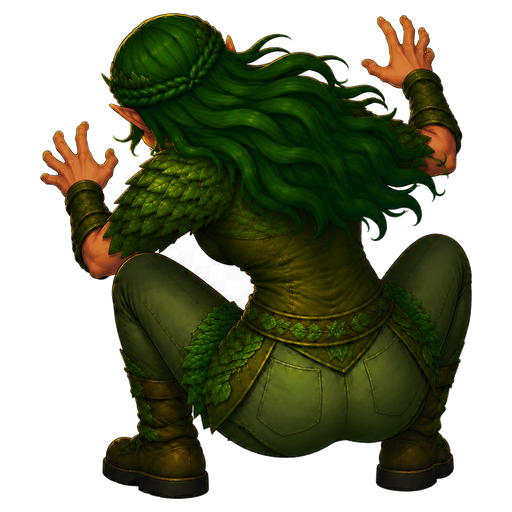
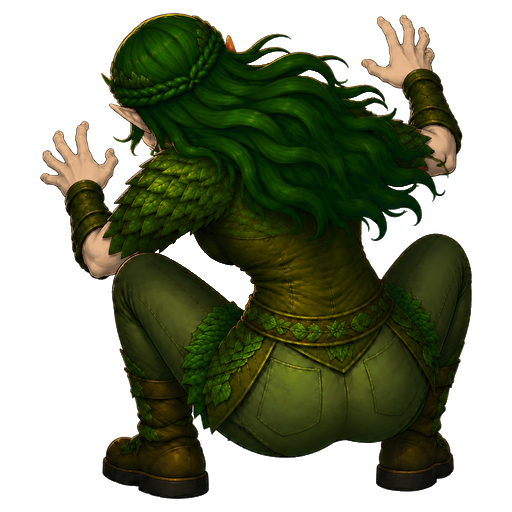
Repair Lula sprite transparency and skin tone

diff --git a/src/characters/manifest.ts b/src/characters/manifest.ts
@@ -48,7 +48,7 @@ export const KRIOS_ASSET_REVISION = 'krios-runtime-20260822-1';
 export const KEEG_ASSET_REVISION = 'keeg-runtime-20260826-2';
 export const MCFLEURDEL_ASSET_REVISION = 'mcfleurdel-runtime-20260827-1';
 export const TOPH_ASSET_REVISION = 'toph-runtime-20260828-1';
-export const LULA_ASSET_REVISION = 'lula-runtime-20260829-1';
+export const LULA_ASSET_REVISION = 'lula-runtime-20260830-2';
 
 const assetUrl = (path: string, revision: string): string =>
   `${import.meta.env.BASE_URL}${path}?v=${revision}`;

diff --git a/tools/assets/repair_lula_skin_tone.py b/tools/assets/repair_lula_skin_tone.py
@@ -1,0 +1,140 @@
+#!/usr/bin/env python3
+"""Normalize Lula chase-camera skin to the approved portrait/front palette."""
+
+from __future__ import annotations
+
+import argparse
+import colorsys
+from pathlib import Path
+
+import numpy as np
+from PIL import Image, ImageDraw
+
+
+ROOT = Path(__file__).resolve().parents[2]
+DRIVER_DIR = ROOT / "public/assets/characters/aa-03/driver"
+
+# Deliberately tight regions around exposed skin. Color qualification below keeps
+# bracers, clothing, hair, and dark linework out of the final masks.
+REGIONS: dict[str, tuple[tuple[int, int, int, int], ...]] = {
+    "rear.png": (
+        (170, 55, 215, 132),
+        (298, 55, 345, 132),
+        (104, 138, 181, 286),
+        (329, 138, 406, 286),
+    ),
+    "steer-left.png": (
+        (174, 54, 236, 166),
+        (114, 178, 231, 312),
+    ),
+    "steer-right.png": (
+        (269, 54, 331, 171),
+        (319, 173, 416, 302),
+    ),
+    "hit.png": (
+        (88, 72, 181, 177),
+        (23, 96, 147, 313),
+        (363, 0, 477, 208),
+    ),
+    "victory.png": (
+        (194, 38, 352, 228),
+        (133, 98, 252, 302),
+    ),
+}
+
+
+def rgb_to_hsv(rgb: np.ndarray) -> np.ndarray:
+    flat = rgb.reshape(-1, 3) / 255.0
+    return np.asarray([colorsys.rgb_to_hsv(*pixel) for pixel in flat]).reshape(
+        *rgb.shape[:2], 3
+    )
+
+
+def skin_mask(pixels: np.ndarray, regions: tuple[tuple[int, int, int, int], ...]) -> np.ndarray:
+    region_mask = np.zeros(pixels.shape[:2], dtype=bool)
+    for x0, y0, x1, y1 in regions:
+        region_mask[y0:y1, x0:x1] = True
+
+    rgb = pixels[:, :, :3]
+    hsv = rgb_to_hsv(rgb)
+    red = rgb[:, :, 0].astype(float)
+    green = rgb[:, :, 1].astype(float)
+    blue = rgb[:, :, 2].astype(float)
+    hue = hsv[:, :, 0] * 360.0
+    already_normalized = (np.abs(hue - 28.5) <= 2.0) & (hsv[:, :, 1] <= 0.55)
+
+    return (
+        region_mask
+        & (pixels[:, :, 3] > 0)
+        & (hue < 50.0)
+        & (hsv[:, :, 1] > 0.25)
+        & (hsv[:, :, 2] > 0.28)
+        & (red > green * 1.15)
+        & (green > blue * 1.05)
+        & ~already_normalized
+    )
+
+
+def normalize_skin(pixels: np.ndarray, mask: np.ndarray) -> np.ndarray:
+    result = pixels.copy()
+    hsv = rgb_to_hsv(pixels[:, :, :3])
+
+    # Authority: the approved portrait/front sprites. Preserve each source
+    # pixel's value/shading while moving hue and saturation into that palette.
+    source_sat = hsv[:, :, 1]
+    target_hue = 28.5 / 360.0
+    target_sat = np.clip(0.40 + (source_sat - np.median(source_sat[mask])) * 0.18, 0.30, 0.52)
+    target_val = np.clip(hsv[:, :, 2] * 1.06 + 0.025, 0.0, 0.96)
+
+    ys, xs = np.nonzero(mask)
+    for y, x in zip(ys, xs, strict=True):
+        red, green, blue = colorsys.hsv_to_rgb(target_hue, target_sat[y, x], target_val[y, x])
+        result[y, x, :3] = np.rint(np.asarray((red, green, blue)) * 255).astype(np.uint8)
+    return result
+
+
+def write_preview(image: Image.Image, mask: np.ndarray, destination: Path) -> None:
+    preview = image.convert("RGBA")
+    overlay = Image.new("RGBA", preview.size, (0, 0, 0, 0))
+    overlay_pixels = np.zeros((*mask.shape, 4), dtype=np.uint8)
+    overlay_pixels[mask] = (0, 255, 255, 185)
+    overlay = Image.fromarray(overlay_pixels, "RGBA")
+    preview = Image.alpha_composite(preview, overlay)
+    draw = ImageDraw.Draw(preview)
+    draw.text((8, 8), destination.stem, fill=(255, 255, 255, 255), stroke_width=2, stroke_fill=(0, 0, 0, 255))
+    preview.save(destination)
+
+
+def main() -> None:
+    parser = argparse.ArgumentParser()
+    parser.add_argument("--apply", action="store_true", help="write corrected sprites in place")
+    parser.add_argument("--preview-dir", type=Path, help="write cyan mask previews")
+    args = parser.parse_args()
+
+    if not args.apply and args.preview_dir is None:
+        parser.error("choose --apply and/or --preview-dir")
+
+    if args.preview_dir:
+        args.preview_dir.mkdir(parents=True, exist_ok=True)
+
+    for filename, regions in REGIONS.items():
+        path = DRIVER_DIR / filename
+        image = Image.open(path).convert("RGBA")
+        pixels = np.asarray(image).copy()
+        mask = skin_mask(pixels, regions)
+        if not mask.any():
+            print(f"{filename}: already normalized")
+            continue
+
+        if args.preview_dir:
+            write_preview(image, mask, args.preview_dir / filename)
+
+        if args.apply:
+            corrected = normalize_skin(pixels, mask)
+            Image.fromarray(corrected, "RGBA").save(path, optimize=True)
+
+        print(f"{filename}: {int(mask.sum())} skin pixels")
+
+
+if __name__ == "__main__":
+    main()

diff --git a/tools/assets/repair_lula_alpha.py b/tools/assets/repair_lula_alpha.py
@@ -1,0 +1,129 @@
+#!/usr/bin/env python3
+"""Remove residual generated white background from approved Lula runtime PNGs.
+
+The original cleanup removed only light-neutral pixels connected directly to an
+image edge. Antialiased color bands enclosed parts of that background, leaving
+opaque white islands and ribbons. This repair classifies connected neutral
+components against the existing alpha boundary and removes large enclosed
+components while preserving small isolated highlights such as eyes.
+"""
+
+from __future__ import annotations
+
+import argparse
+from collections import deque
+from pathlib import Path
+
+import numpy as np
+from PIL import Image
+
+
+FILES = (
+    "portrait.png",
+    "driver/front.png",
+    "driver/rear.png",
+    "driver/steer-left.png",
+    "driver/steer-right.png",
+    "driver/hit.png",
+    "driver/victory.png",
+)
+
+# Only these small face regions may contain intentional neutral highlights.
+# Everything else in Lula's approved green/brown package is background spill.
+PROTECTED_RECTS = {
+    "portrait.png": (82, 66, 180, 170),
+    "driver/front.png": (205, 55, 310, 185),
+    "driver/victory.png": (300, 82, 400, 205),
+}
+
+
+def neighboring(mask: np.ndarray) -> np.ndarray:
+    expanded = mask.copy()
+    expanded[1:] |= mask[:-1]
+    expanded[:-1] |= mask[1:]
+    expanded[:, 1:] |= mask[:, :-1]
+    expanded[:, :-1] |= mask[:, 1:]
+    return expanded
+
+
+def background_components(
+    rgb: np.ndarray, alpha: np.ndarray, protected_rect: tuple[int, int, int, int] | None
+) -> np.ndarray:
+    maximum = rgb.max(axis=2)
+    minimum = rgb.min(axis=2)
+    neutral = (minimum >= 165) & ((maximum - minimum) <= 65) & (alpha > 0)
+    transparent_neighbor = neighboring(alpha == 0)
+    height, width = neutral.shape
+    visited = np.zeros_like(neutral)
+    remove = np.zeros_like(neutral)
+
+    for start_y, start_x in zip(*np.where(neutral)):
+        if visited[start_y, start_x]:
+            continue
+        queue: deque[tuple[int, int]] = deque([(int(start_y), int(start_x))])
+        visited[start_y, start_x] = True
+        component: list[tuple[int, int]] = []
+        touches_transparency = False
+
+        while queue:
+            y, x = queue.popleft()
+            component.append((y, x))
+            touches_transparency |= bool(transparent_neighbor[y, x])
+            for dy, dx in ((-1, 0), (1, 0), (0, -1), (0, 1)):
+                next_y, next_x = y + dy, x + dx
+                if (
+                    0 <= next_y < height
+                    and 0 <= next_x < width
+                    and neutral[next_y, next_x]
+                    and not visited[next_y, next_x]
+                ):
+                    visited[next_y, next_x] = True
+                    queue.append((next_y, next_x))
+
+        # Lula's palette contains no white costume detail. All neutral
+        # components outside the explicit face protection zones are background.
+        for y, x in component:
+            protected = False
+            if protected_rect is not None:
+                left, top, right, bottom = protected_rect
+                protected = left <= x < right and top <= y < bottom
+            if not protected and (touches_transparency or len(component) >= 1):
+                remove[y, x] = True
+
+    # Remove two pixels of pale antialias spill only where it borders confirmed
+    # background. Strongly colored hair, skin, and clothing are unaffected.
+    for _ in range(2):
+        edge = neighboring(remove) & ~remove & (alpha > 0)
+        spill = edge & (minimum >= 150) & ((maximum - minimum) <= 100)
+        if not spill.any():
+            break
+        remove |= spill
+    return remove
+
+
+def repair(path: Path, relative: str) -> tuple[int, int]:
+    image = Image.open(path).convert("RGBA")
+    rgba = np.array(image)
+    remove = background_components(
+        rgba[:, :, :3], rgba[:, :, 3], PROTECTED_RECTS.get(relative)
+    )
+    before = int((rgba[:, :, 3] > 0).sum())
+    rgba[remove, 3] = 0
+    rgba[remove, :3] = 0
+    Image.fromarray(rgba, "RGBA").save(path, format="PNG", optimize=True)
+    after = int((rgba[:, :, 3] > 0).sum())
+    return before - after, after
+
+
+def main() -> None:
+    parser = argparse.ArgumentParser()
+    parser.add_argument("--asset-dir", required=True, type=Path)
+    args = parser.parse_args()
+    for relative in FILES:
+        path = args.asset_dir / relative
+        removed, remaining = repair(path, relative)
+        print({"path": str(path), "removed": removed, "foreground": remaining})
+
+
+if __name__ == "__main__":
+    main()

diff --git a/docs/IMPLEMENTATION-STATUS.md b/docs/IMPLEMENTATION-STATUS.md
@@ -6,7 +6,7 @@
 
 PRD baseline: **v1.1, working implementation amendment 1.6**.
 
-Latest verified live character checkpoint: `a8fea24b309e3123115e9a04c3aee0614085bdc1` — PR #42 recorded Toph's completed live production acceptance after the front-view hand-to-wheel correction passed manual testing. Toph's portrait, The Grave Shift, all six driver states, orientation, AI identity, and runtime behavior are accepted. Main checkpoint `95e221bafa0bfdc68f254a43ac865b9ee461b00c` subsequently prepared Lula's approved transparent sprite package without activating AA-03. Lula's kart and runtime integration are now staged locally pending repository approval, CI, deployment, and live acceptance; this does not supersede Toph as the latest verified live character checkpoint.
+Latest verified live character checkpoint: `a8fea24b309e3123115e9a04c3aee0614085bdc1` — PR #42 recorded Toph's completed live production acceptance after the front-view hand-to-wheel correction passed manual testing. Toph's portrait, The Grave Shift, all six driver states, orientation, AI identity, and runtime behavior are accepted. PR #44 subsequently integrated and deployed Lula at main checkpoint `7822ba05dd5e81b0da40b6038596c6fc12095c5f`, but mobile playtesting exposed sprite-alpha and chase-camera skin-palette defects. Their local corrections remain uncommitted pending a playable test build and Manny's confirmation, so Lula does not supersede Toph as the latest verified live character checkpoint.
 
 The prior detailed implementation-status snapshot is preserved verbatim at `docs/history/IMPLEMENTATION-STATUS-through-2026-08-22.md`.
 
@@ -82,16 +82,18 @@ Continuity closure completed by PR #32:
 - Items and AI item use remain Slice 5.
 - Final HUD/audio/post-processing/optimization remain Slice 6.
 
-## Lula production status — staged for repository checkpoint
+## Lula production status — deployed; corrective playtest pending
 
 - Manny approved Lula's character lock, definitive authority, transformation rights, AA-03 Feather Dirt Ace mapping, The Verdant Hart, all seven transparent 2D designs, and 3D Candidate 4 on 2026-08-29.
 - Candidate 4 resolves the rejected candidates' floating components through open-ended root tubes buried within overlapping organic joints. Dedicated foliage geometry renders recognizable green leaf clusters consistently across viewers.
 - Deterministic production GLBs: LOD0 21,948 triangles / LOD1 8,954 / LOD2 4,746. Each has five materials, 13 required nodes, and `extras.forward: "-Z"`.
[1 lines of base64/hex data omitted]
-- AA-03 activation is staged with controlled revision `lula-runtime-20260829-1`, all six driver states, approved stats, The Verdant Hart, and `NEGATIVE_Z_KART_VISUAL_YAW`.
+- AA-03 activation now uses corrected revision `lula-runtime-20260830-2`, all six driver states, approved stats, The Verdant Hart, and `NEGATIVE_Z_KART_VISUAL_YAW`.
 - Runtime verification covers all three GLBs and all seven PNGs.
 - The branch-scoped LFS bridge regenerated and uploaded only the three locked object IDs. PR #44 CI run `33266092639` then materialized them in a clean checkout, passed `git lfs fsck`, typecheck, lint, 56 tests, runtime asset verification, and the production build.
-- The temporary write-enabled workflow is removed before merge. Main deployment and live acceptance remain pending.
+- The temporary write-enabled workflow was removed before PR #44 merged at `7822ba05dd5e81b0da40b6038596c6fc12095c5f` and deployed to GitHub Pages. Live acceptance is withheld.
+- Live mobile testing after PR #44 exposed opaque white background islands and hair-edge ribbons in all seven Lula PNGs. The original validation had checked dimensions, decoding, alpha range, and transparent corners but not enclosed neutral background components. The local repair regenerates the full package with component-based alpha cleanup and adds a CI regression gate that reconstructs PNG scanlines and rejects neutral-white pixels outside protected face/eye regions.
+- Side-by-side review then exposed a second package-wide defect: rear, steer-left, steer-right, hit, and victory used a saturated orange skin palette inconsistent with the approved portrait/front authority. `tools/assets/repair_lula_skin_tone.py` applies an idempotent spatially constrained palette normalization; automated comparison confirms zero changes outside reviewed skin masks and zero alpha changes. Both corrections remain uncommitted pending a playable test build and Manny's desktop/mobile confirmation.
 
 ## Toph production status — complete
 

diff --git a/docs/assets/LULA-ASSET-BRIEF.md b/docs/assets/LULA-ASSET-BRIEF.md
@@ -20,7 +20,7 @@ Runtime derivatives are stored under `public/assets/characters/aa-03/`:
 - `driver/hit.png`: 512 × 512 sRGBA
 - `driver/victory.png`: 512 × 512 sRGBA
 
-All seven files have genuine transparency, fully transparent corners, and approved clean silhouettes. Driver layers contain no kart, seat, or steering-wheel geometry.
+All seven files have genuine transparency, fully transparent corners, and approved clean silhouettes. Driver layers contain no kart, seat, or steering-wheel geometry. Live mobile testing exposed white background islands that the first edge-connected cleanup had not removed. `tools/assets/repair_lula_alpha.py` now removes every neutral-white component outside explicit face/eye protection zones and cleans the adjacent pale spill. Side-by-side package review also found saturated orange skin in the five chase-camera states. `tools/assets/repair_lula_skin_tone.py` normalizes only the reviewed exposed-skin masks to the approved portrait/front palette while preserving every non-skin and alpha pixel. The corrected package uses revision `lula-runtime-20260830-2`.
 
 ## Approved 3D package
 
@@ -32,4 +32,4 @@ Candidate 4 preserves the approved low stag-racer silhouette while replacing exp
[2 lines of base64/hex data omitted]
 
-All three GLBs provide 13 required nodes and `extras.forward: "-Z"`. The controlled runtime revision is `lula-runtime-20260829-1`. The branch-scoped LFS bridge uploaded the locked objects, and PR #44 CI run `33266092639` independently materialized and validated them. Deployment and live acceptance remain pending.
+All three GLBs provide 13 required nodes and `extras.forward: "-Z"`. The controlled runtime revision is `lula-runtime-20260830-2`. The branch-scoped LFS bridge uploaded the locked objects, and PR #44 CI run `33266092639` independently materialized and validated them. Corrected sprite playtesting and live acceptance remain pending.

diff --git a/docs/TESTING.md b/docs/TESTING.md
@@ -177,11 +177,13 @@ Run this matrix for every future production character, in addition to its slice-
 - `Race as Lula` loads The Verdant Hart rather than the fallback kart.
 - The low living-root body, unified stag face, brow-mounted antlers, embedded green leaves, connected wheel housings, and restrained wooden outlets load without clipping or floating geometry.
 - Lula sits correctly in the open cockpit with the steering wheel forward of the driver.
-- Rear, front, steer-left, steer-right, hit, and corrected victory states load from `lula-runtime-20260829-1`.
+- Rear, front, steer-left, steer-right, hit, and corrected victory states load from `lula-runtime-20260830-2`.
 - Chase and rear views confirm the stag face remains at the race-forward nose and the wooden outlets remain behind Lula.
 - Lula appears no more than once as an AI opponent when the player selects another character.
 - CI materializes and validates all three AA-03 GLBs; each begins with the binary glTF signature and declares `extras.forward: "-Z"`.
 - CI inflates and validates every AA-03 PNG as complete RGBA image data.
+- CI reconstructs every AA-03 PNG scanline and rejects any opaque neutral-white pixel outside the protected face/eye regions.
+- Portrait and front remain the skin-tone authority; rear, steer-left, steer-right, hit, and victory must use the same pale neutral complexion without altering pose, clothing, hair, or alpha edges.
 - Product-owner acceptance is recorded only after the deployed game confirms Lula is selectable and all approved assets load as intended on desktop and mobile.
 
 ## Mobile finish-state matrix

diff --git a/docs/avatars/LULA.md b/docs/avatars/LULA.md
@@ -30,10 +30,10 @@ The profile gives Lula quick recovery, responsive control, and strong off-road g
 - Portrait: 256 × 256 transparent sRGBA PNG
 - Front, rear, steer-left, steer-right, hit, and victory: 512 × 512 transparent sRGBA PNG
 - Driver layers contain no kart, seat, or steering-wheel geometry
-- Runtime revision: `lula-runtime-20260829-1`
+- Runtime revision: `lula-runtime-20260830-2`
 - Candidate 4 produces deterministic LOD0/LOD1/LOD2 at 21,948 / 8,954 / 4,746 triangles
 - Every GLB provides 13 required nodes and `extras.forward: "-Z"`
 
 ## Live acceptance
 
-Pending merge, deployment, and Manny's desktop/mobile runtime confirmation.
+The initial live package exposed opaque white background islands and hair-edge ribbons that the original edge-connected checkerboard cleanup had missed. The deterministic `repair_lula_alpha.py` correction removes enclosed neutral background components and neighboring pale spill while protecting small face/eye highlights. Package review also found that the five chase-camera states had drifted to saturated orange skin; `repair_lula_skin_tone.py` constrains their exposed skin to the approved portrait/front complexion with no non-skin or alpha changes. The combined correction remains uncommitted until a playable build passes Manny's desktop/mobile confirmation.
